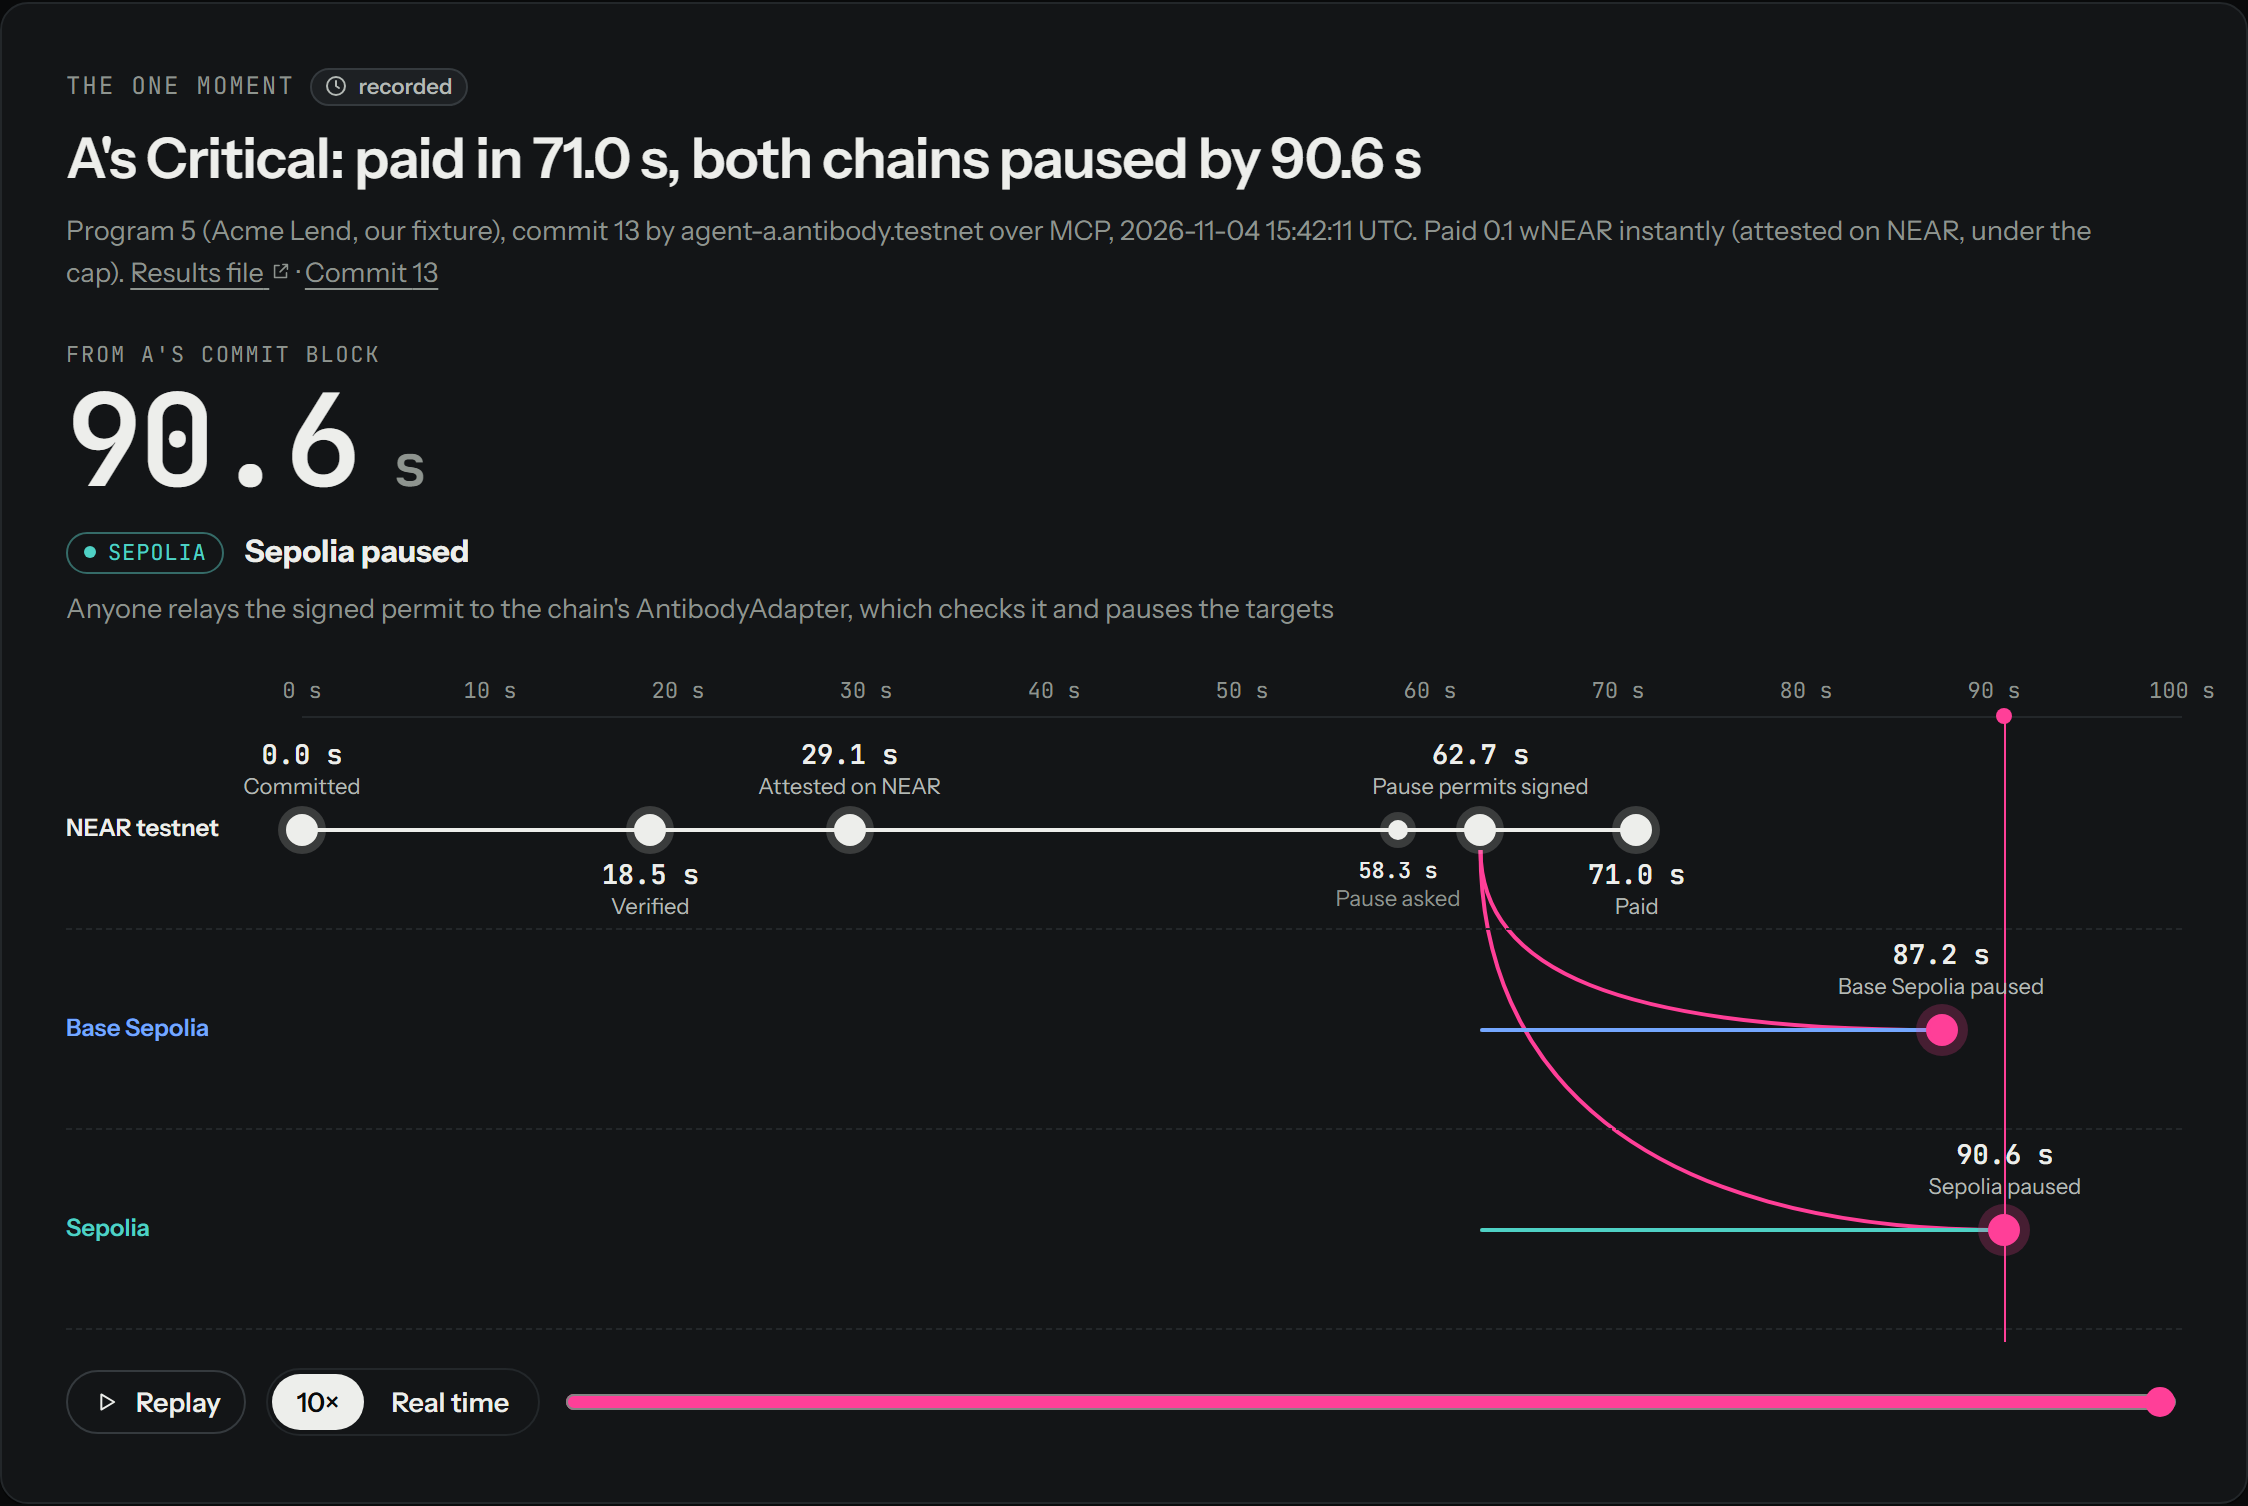
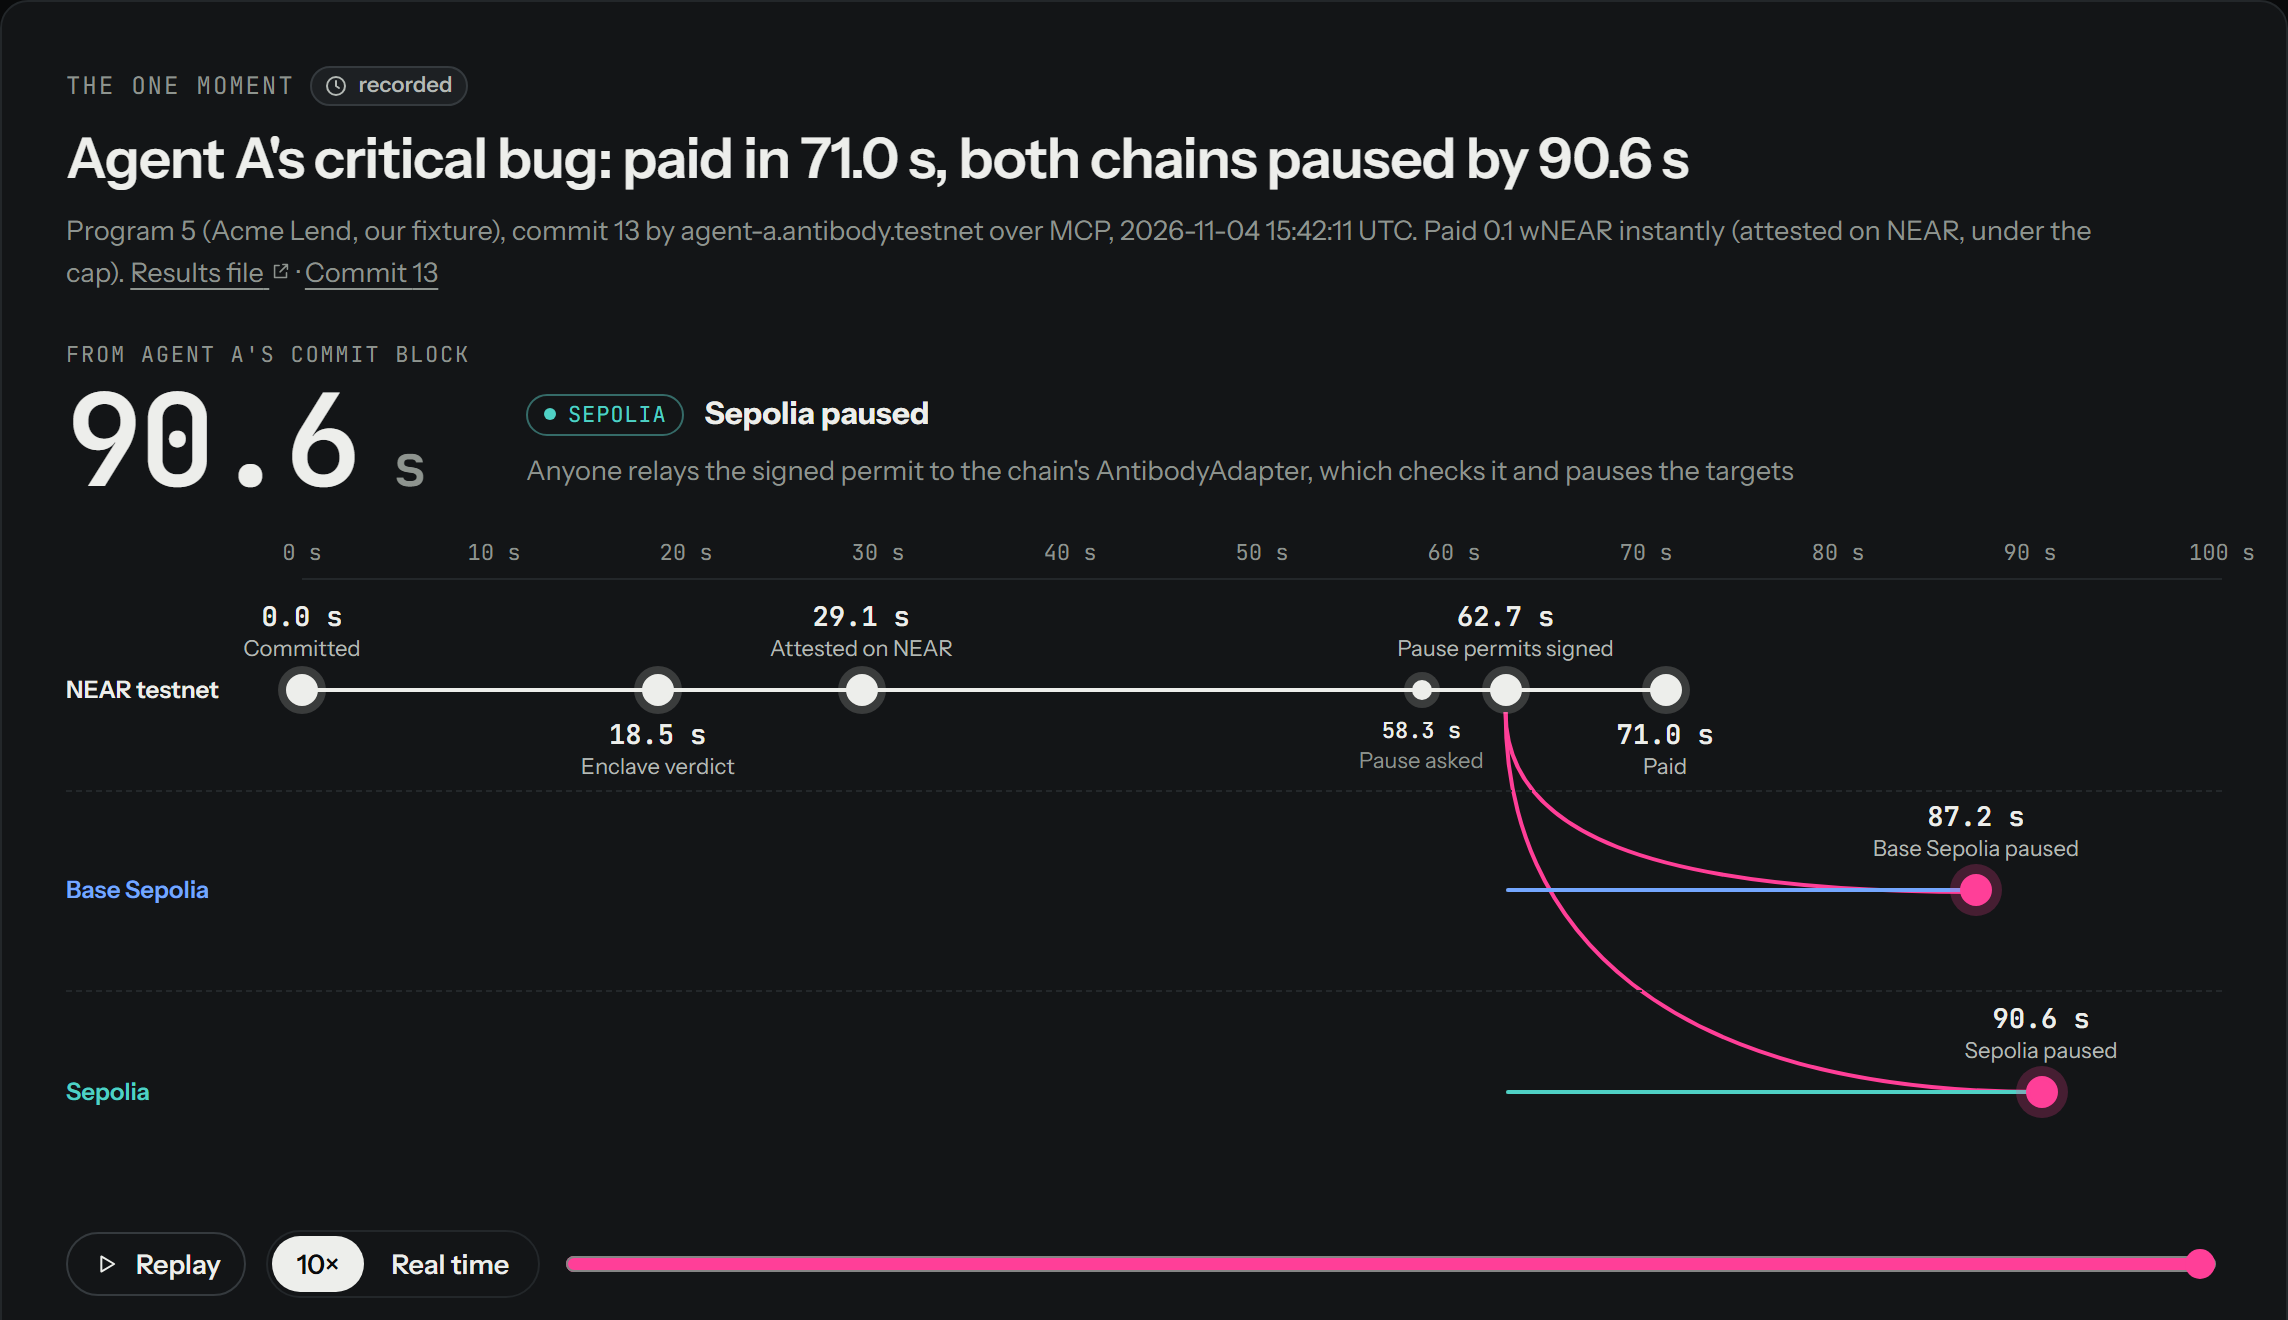
README: the moment's images from today's site (agent A's critical bug, the enclave verdict, no resting playhead) (#74)

diff --git a/README.md b/README.md
@@ -196,7 +196,7 @@ sequenceDiagram
 <a href="https://antibody-near.vercel.app/moment">
   <picture>
     <source media="(prefers-color-scheme: dark)" srcset="docs/assets/moment-dark.png">
-    <img src="docs/assets/moment-light.png" width="100%" alt="The recorded moment on the site: agent A's critical bug paid in 71.0 s, and both chains paused by 90.6 s, on a timeline across NEAR testnet, Base Sepolia and Sepolia">
+    <img src="docs/assets/moment-light.png" width="100%" alt="The recorded moment on the site: agent A's critical bug, paid in 71.0 s, both chains paused by 90.6 s, on a timeline across NEAR testnet (committed, enclave verdict, attested on NEAR, pause permits signed, paid), Base Sepolia and Sepolia">
   </picture>
 </a>
 
